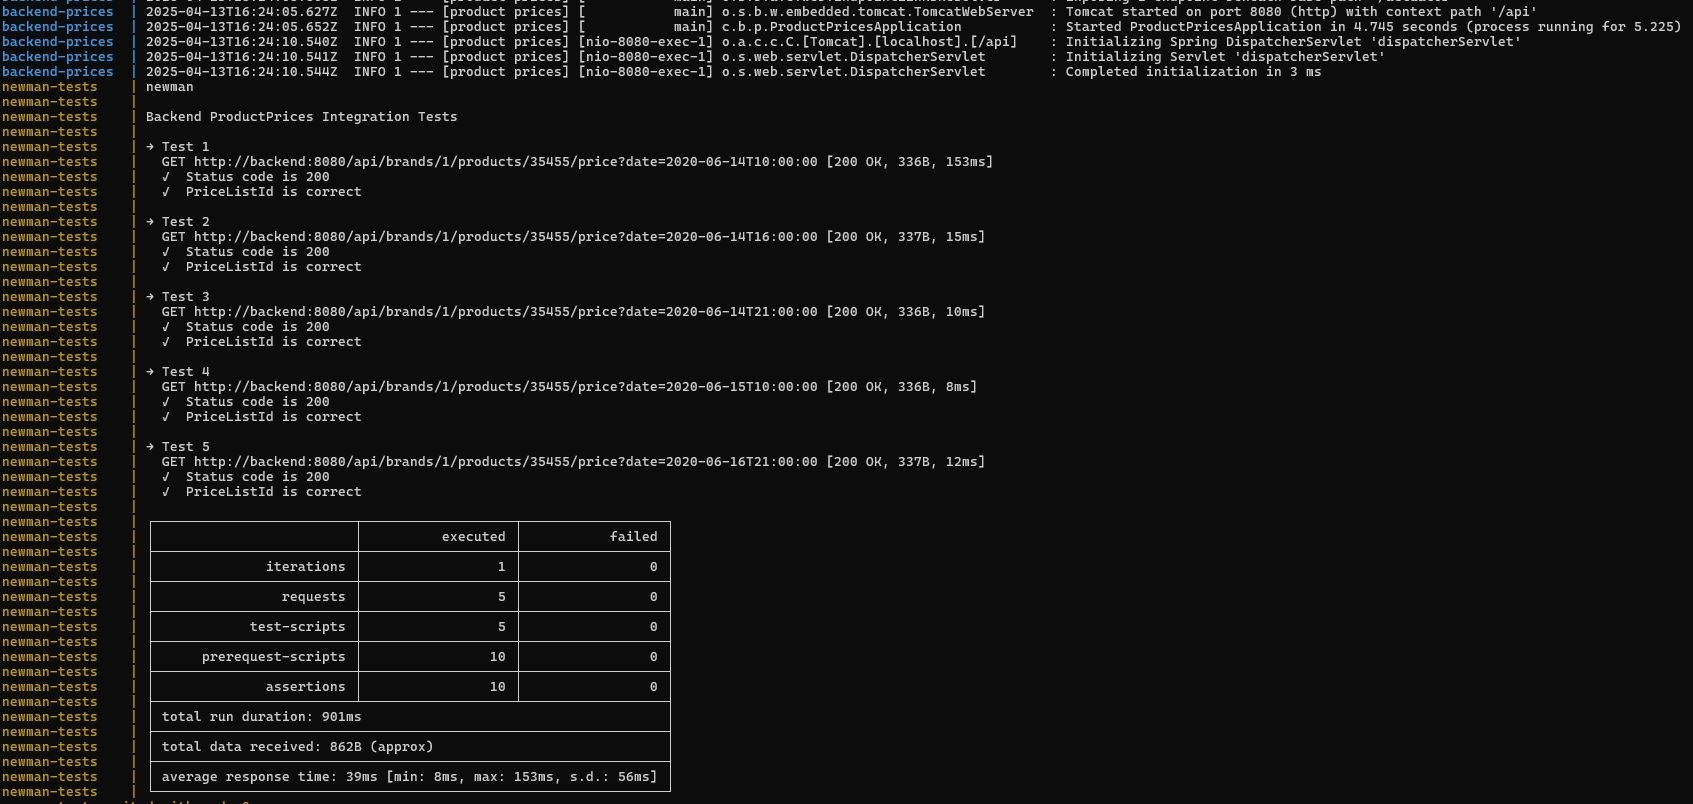
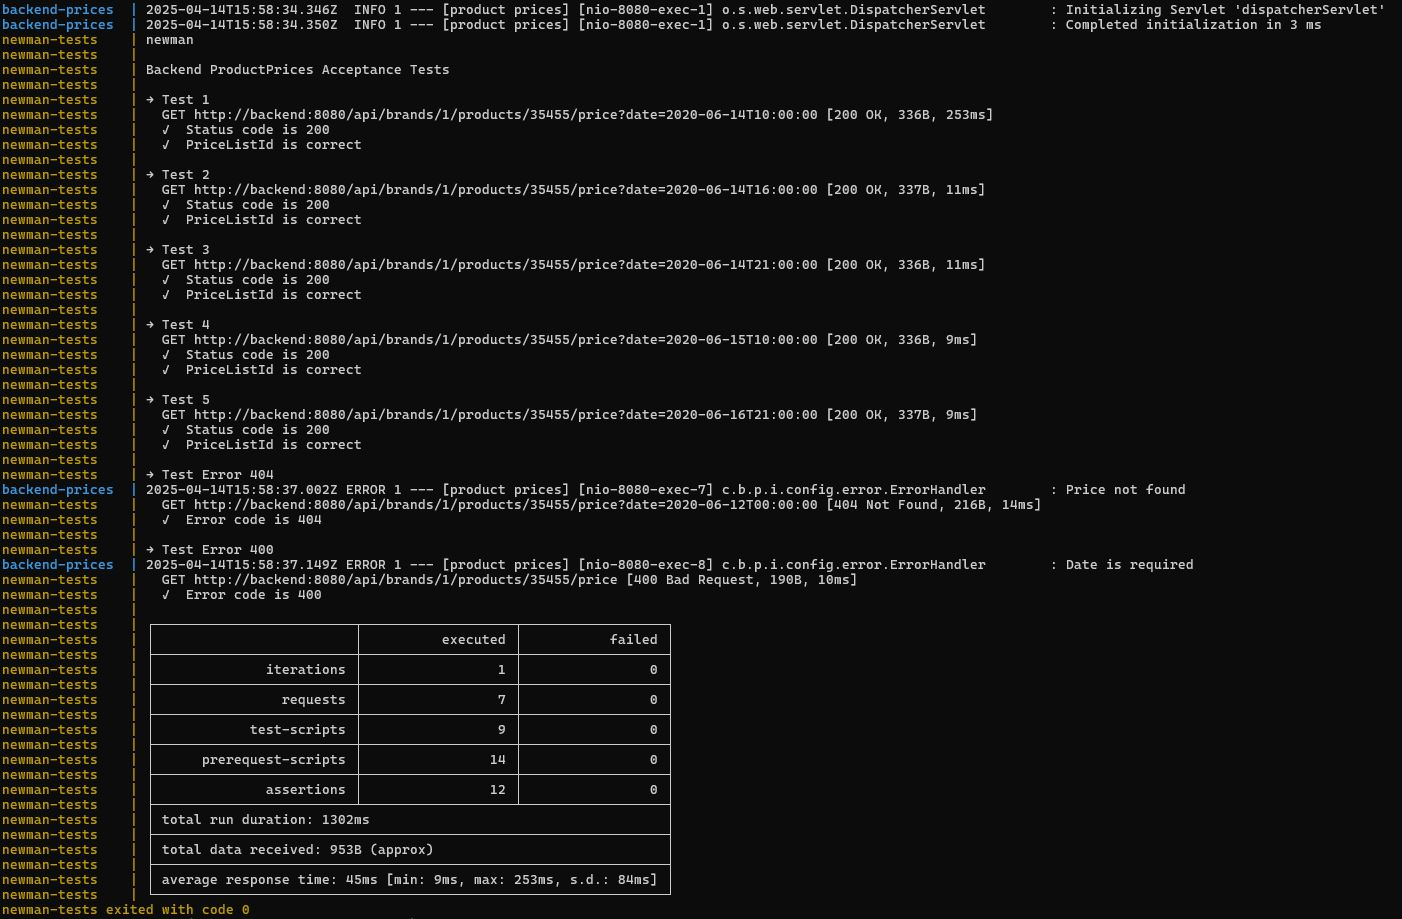
refactor: add tests, update errorHandler

diff --git a/src/main/java/com/backend/productprices/infrastructure/entrypoint/api/QueryProductPriceController.java b/src/main/java/com/backend/productprices/infrastructure/entrypoint/api/QueryProductPriceController.java
@@ -3,14 +3,14 @@ package com.backend.productprices.infrastructure.entrypoint.api;
 import com.backend.productprices.application.search.SearchProductPrice;
 import com.backend.productprices.application.search.dto.ProductPriceDTO;
 import com.backend.productprices.application.search.dto.ProductPriceSearchCriteriaDTO;
+import com.backend.productprices.shared.utils.DateUtils;
 import io.swagger.v3.oas.annotations.Operation;
+import io.swagger.v3.oas.annotations.Parameter;
 import io.swagger.v3.oas.annotations.tags.Tag;
 import org.springframework.web.bind.annotation.GetMapping;
 import org.springframework.web.bind.annotation.PathVariable;
 import org.springframework.web.bind.annotation.RequestParam;
 import org.springframework.web.bind.annotation.RestController;
-
-import java.time.LocalDateTime;
 
 @RestController
 @Tag(name = "Prices Query Controller", description = "Controller to query prices")
@@ -23,7 +23,10 @@ final class QueryProductPriceController {
 
     @GetMapping("/brands/{brandId}/products/{productId}/price")
     @Operation(summary = "Get product price by date", description = "Allows you to query the product's price at a specific time")
-    public ProductPriceDTO getPrice(@PathVariable Long productId, @PathVariable Long brandId, @RequestParam LocalDateTime date) {
-        return searchProductPrice.searchProductPrice(new ProductPriceSearchCriteriaDTO(productId, brandId, date));
+    public ProductPriceDTO getPrice(
+            @Parameter(description = "Brand id", example = "1") @PathVariable Long brandId,
+            @Parameter(description = "Product id", example = "35455") @PathVariable Long productId,
+            @Parameter(description = "Time", example = "2020-06-14 10:00:00") @RequestParam(required = false) String date) {
+        return searchProductPrice.searchProductPrice(new ProductPriceSearchCriteriaDTO(productId, brandId, DateUtils.toLocalDateTime(date)));
     }
 }

diff --git a/src/main/java/com/backend/productprices/infrastructure/config/error/ErrorHandler.java b/src/main/java/com/backend/productprices/infrastructure/config/error/ErrorHandler.java
@@ -1,9 +1,8 @@
-package com.backend.productprices.infrastructure.config;
+package com.backend.productprices.infrastructure.config.error;
 
 import com.backend.productprices.domain.exception.DomainException;
 import com.backend.productprices.domain.exception.ResourceNotFoundException;
 import lombok.extern.slf4j.Slf4j;
-import org.springframework.http.HttpHeaders;
 import org.springframework.http.HttpStatus;
 import org.springframework.http.ResponseEntity;
 import org.springframework.web.bind.annotation.ControllerAdvice;
@@ -18,14 +17,14 @@ public class ErrorHandler extends ResponseEntityExceptionHandler {
     @ResponseStatus(value = HttpStatus.NOT_FOUND)
     @ExceptionHandler(value = {ResourceNotFoundException.class})
     protected ResponseEntity<Object> handleNotFoundError(RuntimeException ex, WebRequest request) {
-        log.error(ex.getMessage(), ex);
-        return handleExceptionInternal(ex, ex.getMessage(), new HttpHeaders(), HttpStatus.NOT_FOUND, request);
+        log.error(ex.getMessage());
+        return new ResponseEntity<>(new ErrorResponse(HttpStatus.NOT_FOUND.value(), ex.getMessage()), HttpStatus.NOT_FOUND);
     }
 
     @ResponseStatus(value = HttpStatus.BAD_REQUEST)
     @ExceptionHandler(value = {DomainException.class})
     protected ResponseEntity<Object> handleDomainAccessError(RuntimeException ex, WebRequest request) {
-        log.error(ex.getMessage(), ex);
-        return handleExceptionInternal(ex, ex.getMessage(), new HttpHeaders(), HttpStatus.BAD_REQUEST, request);
+        log.error(ex.getMessage());
+        return new ResponseEntity<>(new ErrorResponse(HttpStatus.BAD_REQUEST.value(), ex.getMessage()), HttpStatus.BAD_REQUEST);
     }
 }

diff --git a/src/main/java/com/backend/productprices/shared/utils/DateUtils.java b/src/main/java/com/backend/productprices/shared/utils/DateUtils.java
@@ -1,9 +1,7 @@
-package com.backend.productprices.infrastructure.config;
+package com.backend.productprices.shared.utils;
 
 import com.backend.productprices.domain.exception.DomainException;
 import com.backend.productprices.shared.message.KeyMessageSource;
-import org.springframework.core.convert.converter.Converter;
-import org.springframework.stereotype.Component;
 
 import java.time.LocalDateTime;
 import java.time.OffsetDateTime;
@@ -11,8 +9,7 @@ import java.time.ZonedDateTime;
 import java.time.format.DateTimeFormatter;
 import java.util.List;
 
-@Component
-public class FlexibleLocalDateTimeConverter implements Converter<String, LocalDateTime> {
+public class DateUtils {
     private static final List<DateTimeFormatter> FORMATTERS = List.of(
             DateTimeFormatter.ISO_DATE_TIME,
             DateTimeFormatter.ofPattern("yyyy-MM-dd HH:mm:ss"),
@@ -21,8 +18,11 @@ public class FlexibleLocalDateTimeConverter implements Converter<String, LocalDa
             DateTimeFormatter.ofPattern("dd/MM/yyyy HH:mm")
     );
 
-    @Override
-    public LocalDateTime convert(String source) {
+    public static LocalDateTime toLocalDateTime(String source) {
+        if (source == null) {
+            return null;
+        }
+
         String date = source.trim();
 
         for (DateTimeFormatter formatter : FORMATTERS) {

diff --git a/src/test/java/com/backend/productprices/shared/utils/DateUtilsTest.java b/src/test/java/com/backend/productprices/shared/utils/DateUtilsTest.java
@@ -1,0 +1,35 @@
+package com.backend.productprices.shared.utils;
+
+import com.backend.productprices.domain.exception.DomainException;
+import com.backend.productprices.shared.message.KeyMessageSource;
+import org.assertj.core.api.Assertions;
+import org.junit.jupiter.api.Test;
+
+import java.time.LocalDateTime;
+
+class DateUtilsTest {
+
+    @Test
+    void should_throwError_when_formatIsIncorrect() {
+        final var expectedThrow = Assertions.catchThrowable(() -> DateUtils.toLocalDateTime("2020"));
+
+        Assertions.assertThat(expectedThrow).isInstanceOf(DomainException.class)
+                .hasMessage(KeyMessageSource.INVALID_DATE_FORMAT);
+    }
+
+    @Test
+    void should_returnNull_when_sourceIsNull() {
+        final var result = DateUtils.toLocalDateTime(null);
+
+        Assertions.assertThat(result).isNull();
+    }
+
+    @Test
+    void should_createLocalDateTime() {
+        final var expected = LocalDateTime.of(2020, 6, 16, 21, 0, 0);
+        final var result = DateUtils.toLocalDateTime("2020-06-16T21:00:00");
+
+        Assertions.assertThat(result).isNotNull().isEqualTo(expected);
+    }
+
+}

diff --git a/src/main/java/com/backend/productprices/infrastructure/config/error/ErrorResponse.java b/src/main/java/com/backend/productprices/infrastructure/config/error/ErrorResponse.java
@@ -1,0 +1,11 @@
+package com.backend.productprices.infrastructure.config.error;
+
+import lombok.AllArgsConstructor;
+import lombok.Data;
+
+@Data
+@AllArgsConstructor
+public class ErrorResponse {
+    private int errorCode;
+    private String message;
+}
